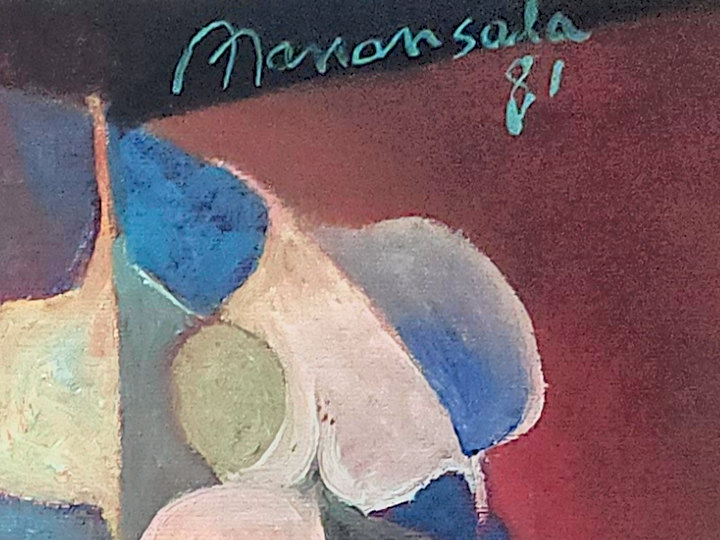
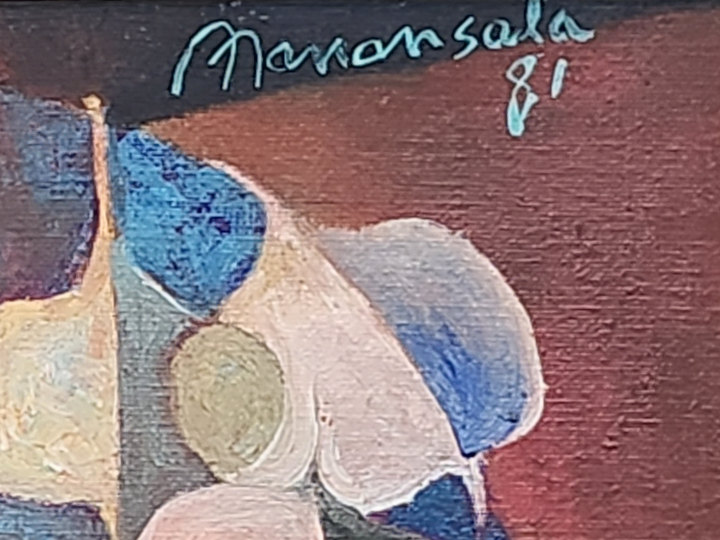
Replaced artwork images with higher resolution versions; added back of artwork image.

diff --git a/index.html b/index.html
@@ -63,7 +63,7 @@
         "url": "https://cyconerd-waas.github.io/manansala-artwork-singlepage-advert/assets/images/manansala-still-life-1981-2000.jpg",
         "contentUrl": "https://cyconerd-waas.github.io/manansala-artwork-singlepage-advert/assets/images/manansala-still-life-1981-2000.jpg",
         "width": 2000,
-        "height": 1889,
+        "height": 1887,
         "caption": "Vicente Manansala, Still Life, 1981. Oil on canvas."
       },
       {
@@ -328,7 +328,7 @@
             <a class="zoomable" href="assets/images/verso-framer-label.jpg" data-webp="assets/images/verso-framer-label.webp" data-caption="On the reverse: label of Bobby’s Frame Specialist, 27 Ermin Garcia St., Cubao, Quezon City.">
               <picture>
                 <source type="image/webp" srcset="assets/images/verso-framer-label.webp">
-                <img src="assets/images/verso-framer-label.jpg" width="1136" height="515" loading="lazy" decoding="async"
+                <img src="assets/images/verso-framer-label.jpg" width="2000" height="893" loading="lazy" decoding="async"
                   alt="A framer’s label on the wooden reverse, printed “Bobby’s Frame Specialist, 27 Ermin Garcia St., Cubao, Q.C.”, with blank fields for title, date, medium, size, artist and collection.">
               </picture>
             </a>
